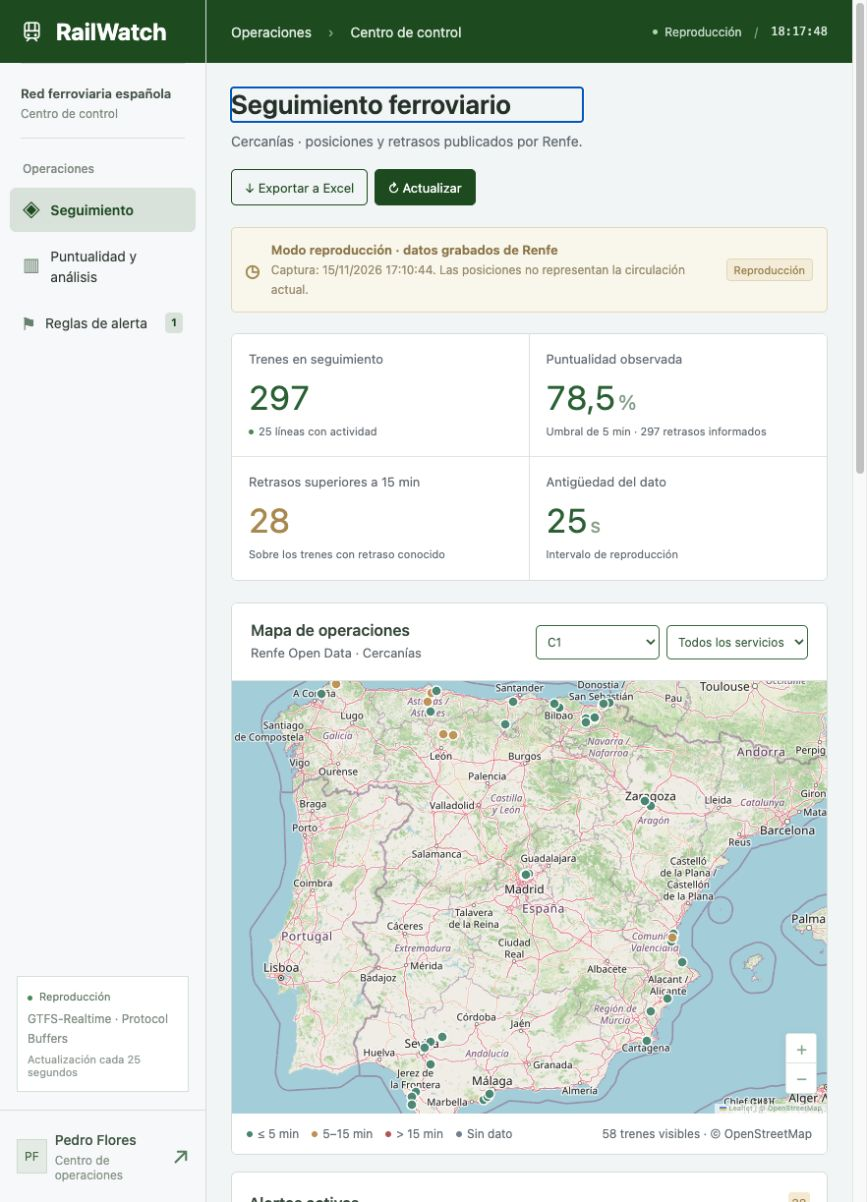
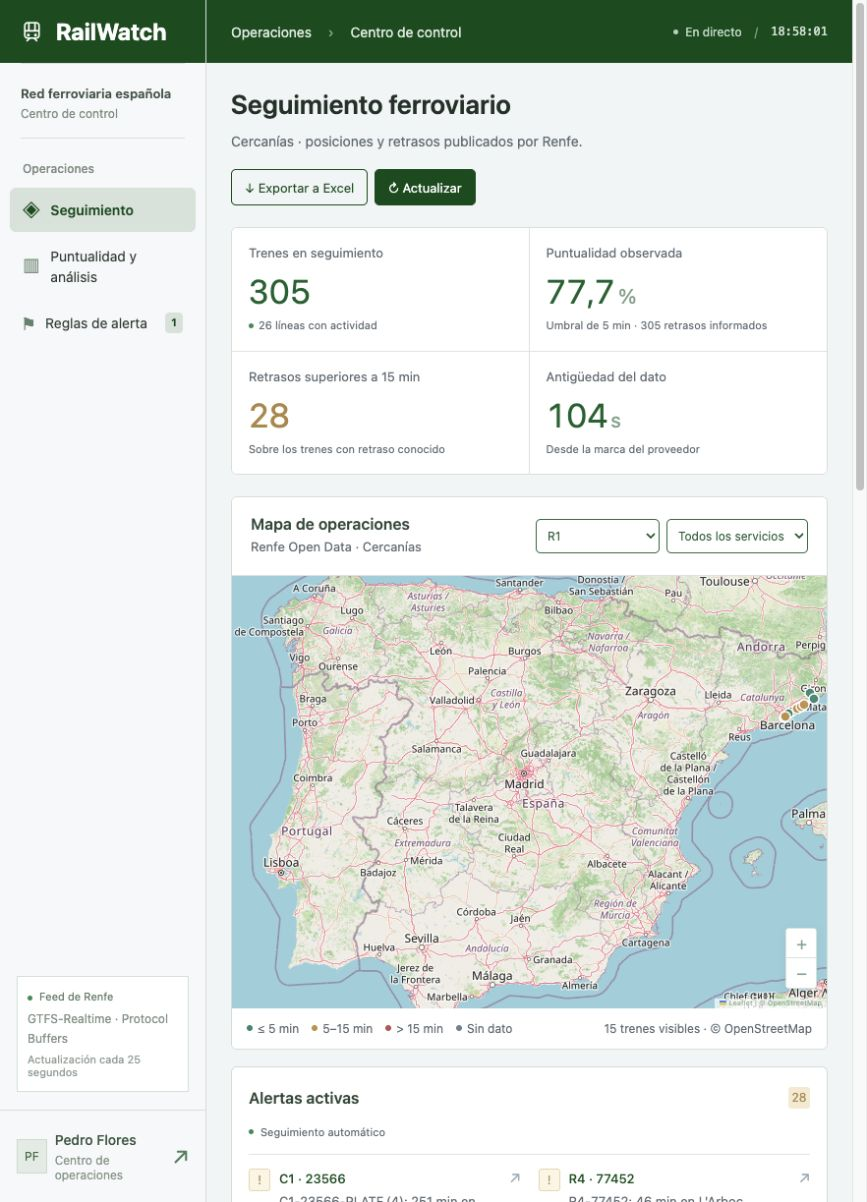
Ajustar contraste y capturas del diseño verde y blanco

diff --git a/src/RailWatch.Desktop.Wpf/MainWindow.xaml b/src/RailWatch.Desktop.Wpf/MainWindow.xaml
@@ -1,17 +1,17 @@
 <Window x:Class="RailWatch.Desktop.Wpf.MainWindow" xmlns="http://schemas.microsoft.com/winfx/2006/xaml/presentation" xmlns:x="http://schemas.microsoft.com/winfx/2006/xaml" Title="RailWatch · Centro de control" Width="1360" Height="850" MinWidth="1050" MinHeight="650" Background="#F4F7F9" FontFamily="Segoe UI" FontSize="14" Foreground="#294357" WindowStartupLocation="CenterScreen">
-    <Grid><Grid.ColumnDefinitions><ColumnDefinition Width="225"/><ColumnDefinition Width="*"/></Grid.ColumnDefinitions>
-        <Border Background="#17541F"><DockPanel Margin="23,30"><StackPanel DockPanel.Dock="Top"><TextBlock Text="≋ RailWatch" FontFamily="Segoe UI" FontSize="26" Foreground="White"/><TextBlock Text="Control ferroviario" Foreground="#91A7B8" FontSize="11" Margin="4,10,0,40"/><TextBlock Text="Centro de control" FontSize="11" Foreground="#BCA275"/><TextBlock Text="Red ferroviaria española" Foreground="#D3DFE8" FontSize="13" Margin="0,12,0,7"/><TextBlock Text="Seguimiento de operaciones" Foreground="#819CAE" FontSize="13"/></StackPanel><StackPanel VerticalAlignment="Bottom"><TextBlock Text="Pedro Flores" Foreground="White" FontSize="12"/><TextBlock Text="C# / .NET · WPF / MVVM" Foreground="#7C98AC" FontSize="12" Margin="0,7,0,0"/></StackPanel></DockPanel></Border>
+    <Grid Background="#F4F7F9"><Grid.ColumnDefinitions><ColumnDefinition Width="225"/><ColumnDefinition Width="*"/></Grid.ColumnDefinitions>
+        <Border Background="#17541F"><DockPanel Margin="23,30"><StackPanel DockPanel.Dock="Top"><TextBlock Text="≋ RailWatch" FontFamily="Segoe UI" FontSize="26" Foreground="White"/><TextBlock Text="Control ferroviario" Foreground="#C0D8C5" FontSize="12" Margin="4,10,0,40"/><TextBlock Text="Centro de control" FontSize="12" Foreground="#C0D8C5"/><TextBlock Text="Red ferroviaria española" Foreground="#D3DFE8" FontSize="13" Margin="0,12,0,7"/><TextBlock Text="Seguimiento de operaciones" Foreground="#C0D8C5" FontSize="13"/></StackPanel><StackPanel VerticalAlignment="Bottom"><TextBlock Text="Pedro Flores" Foreground="White" FontSize="12"/><TextBlock Text="C# / .NET · WPF / MVVM" Foreground="#C0D8C5" FontSize="12" Margin="0,7,0,0"/></StackPanel></DockPanel></Border>
         <Grid Grid.Column="1" Margin="30,25"><Grid.RowDefinitions><RowDefinition Height="Auto"/><RowDefinition Height="Auto"/><RowDefinition Height="*"/><RowDefinition Height="Auto"/></Grid.RowDefinitions>
-            <Grid><Grid.ColumnDefinitions><ColumnDefinition/><ColumnDefinition Width="Auto"/></Grid.ColumnDefinitions><StackPanel><TextBlock Text="Red de Cercanías" Foreground="#AA9169" FontSize="12"/><TextBlock Text="Centro de control ferroviario" FontFamily="Segoe UI" FontSize="26" Margin="0,13,0,10"/><TextBlock Text="{Binding Status}" FontSize="13" Foreground="#8B9EAD"/></StackPanel><Button Grid.Column="1" Content="Exportar a Excel" VerticalAlignment="Center" Click="Export_Click"/></Grid>
+            <Grid><Grid.ColumnDefinitions><ColumnDefinition/><ColumnDefinition Width="Auto"/></Grid.ColumnDefinitions><StackPanel><TextBlock Text="Red de Cercanías" Foreground="#65756B" FontSize="12"/><TextBlock Text="Centro de control ferroviario" FontFamily="Segoe UI" FontSize="26" Margin="0,13,0,10"/><TextBlock Text="{Binding Status}" FontSize="13" Foreground="#65756B"/></StackPanel><Button Grid.Column="1" Content="Exportar a Excel" VerticalAlignment="Center" Click="Export_Click"/></Grid>
             <Grid Grid.Row="1" Margin="0,25,0,25"><Grid.ColumnDefinitions><ColumnDefinition/><ColumnDefinition/><ColumnDefinition/></Grid.ColumnDefinitions>
-                <Border Background="White" BorderBrush="#DFE7ED" BorderThickness="1" Padding="20" Margin="0,0,15,0"><StackPanel><TextBlock Text="Trenes en seguimiento" FontSize="13" Foreground="#94A5B3"/><TextBlock Text="{Binding TrainCount}" FontSize="35" Margin="0,10,0,0"/></StackPanel></Border>
-                <Border Grid.Column="1" Background="White" BorderBrush="#DFE7ED" BorderThickness="1" Padding="20" Margin="0,0,15,0"><StackPanel><TextBlock Text="Puntualidad observada (≤ 5 min)" FontSize="13" Foreground="#94A5B3"/><TextBlock Text="{Binding Punctuality, TargetNullValue=Sin datos, StringFormat={}{0:0.0}%}" FontSize="35" Margin="0,10,0,0" Foreground="#618D78"/></StackPanel></Border>
-                <Border Grid.Column="2" Background="White" BorderBrush="#DFE7ED" BorderThickness="1" Padding="20"><StackPanel><TextBlock Text="Alertas de retraso" FontSize="13" Foreground="#94A5B3"/><TextBlock Text="{Binding Alerts.Count}" FontSize="35" Margin="0,10,0,0" Foreground="#B49762"/></StackPanel></Border>
+                <Border Background="White" BorderBrush="#DFE7ED" BorderThickness="1" Padding="20" Margin="0,0,15,0"><StackPanel><TextBlock Text="Trenes en seguimiento" FontSize="13" Foreground="#65756B"/><TextBlock Text="{Binding TrainCount}" FontSize="35" Margin="0,10,0,0"/></StackPanel></Border>
+                <Border Grid.Column="1" Background="White" BorderBrush="#DFE7ED" BorderThickness="1" Padding="20" Margin="0,0,15,0"><StackPanel><TextBlock Text="Puntualidad observada (≤ 5 min)" FontSize="13" Foreground="#65756B"/><TextBlock Text="{Binding Punctuality, TargetNullValue=Sin datos, StringFormat={}{0:0.0}%}" FontSize="35" Margin="0,10,0,0" Foreground="#618D78"/></StackPanel></Border>
+                <Border Grid.Column="2" Background="White" BorderBrush="#DFE7ED" BorderThickness="1" Padding="20"><StackPanel><TextBlock Text="Alertas de retraso" FontSize="13" Foreground="#65756B"/><TextBlock Text="{Binding Alerts.Count}" FontSize="35" Margin="0,10,0,0" Foreground="#B49762"/></StackPanel></Border>
             </Grid>
-            <Grid Grid.Row="2"><Grid.ColumnDefinitions><ColumnDefinition Width="3*"/><ColumnDefinition Width="20"/><ColumnDefinition Width="1.25*"/></Grid.ColumnDefinitions><Grid><Grid.RowDefinitions><RowDefinition Height="Auto"/><RowDefinition Height="*"/><RowDefinition Height="Auto"/></Grid.RowDefinitions><DockPanel Margin="0,0,0,15"><TextBlock Text="Trenes en circulación" FontSize="17" VerticalAlignment="Center"/><TextBox Text="{Binding Filter, UpdateSourceTrigger=PropertyChanged}" Width="230" Padding="9" HorizontalAlignment="Right" ToolTip="Buscar tren, línea o estación"/></DockPanel><DataGrid Grid.Row="1" ItemsSource="{Binding Trains}"><DataGrid.Columns><DataGridTextColumn Header="Tren" Binding="{Binding Id}" Width="80"/><DataGridTextColumn Header="Línea" Binding="{Binding Line}" Width="65"/><DataGridTextColumn Header="Próxima estación" Binding="{Binding NextStop}" Width="*"/><DataGridTextColumn Header="Retraso (s)" Binding="{Binding DelaySeconds, TargetNullValue=Sin dato}" Width="85"/><DataGridTextColumn Header="Predicción (min)" Binding="{Binding PredictedDelayMinutes, StringFormat=0.0, TargetNullValue=Sin modelo}" Width="105"/></DataGrid.Columns></DataGrid><TextBlock Grid.Row="2" Text="Sin dato indica que el proveedor no informa del retraso. Replay identifica una grabación, no circulación actual." Foreground="#96A8B6" FontSize="12" TextWrapping="Wrap" Margin="0,12,0,0"/></Grid>
-                <Grid Grid.Column="2"><Grid.RowDefinitions><RowDefinition Height="Auto"/><RowDefinition Height="*"/><RowDefinition Height="Auto"/></Grid.RowDefinitions><DockPanel Margin="0,0,0,15"><TextBlock Text="Alertas en directo" FontSize="17"/><CheckBox Content="Sonido" IsChecked="{Binding SoundEnabled}" HorizontalAlignment="Right" VerticalAlignment="Center" FontSize="12"/></DockPanel><ListBox Grid.Row="1" ItemsSource="{Binding Alerts}" BorderBrush="#DFE7ED" Background="White" ScrollViewer.HorizontalScrollBarVisibility="Disabled"><ListBox.ItemTemplate><DataTemplate><Border BorderBrush="#EDF1F3" BorderThickness="0,0,0,1" Padding="10,14"><StackPanel><TextBlock Text="{Binding Line}" Foreground="#B69661" FontWeight="SemiBold"/><TextBlock Text="{Binding Message}" FontSize="13" TextWrapping="Wrap" Margin="0,7,0,0"/><TextBlock Text="{Binding At, StringFormat=HH:mm:ss}" FontSize="11" Foreground="#A6B5BF" Margin="0,7,0,0"/></StackPanel></Border></DataTemplate></ListBox.ItemTemplate></ListBox><StackPanel Grid.Row="2" Margin="0,20,0,0"><TextBlock Text="Puntualidad del día · seis líneas" FontSize="14" Margin="0,0,0,10"/><ItemsControl ItemsSource="{Binding Lines}"><ItemsControl.ItemTemplate><DataTemplate><Grid Margin="0,4"><Grid.ColumnDefinitions><ColumnDefinition Width="45"/><ColumnDefinition/><ColumnDefinition Width="50"/></Grid.ColumnDefinitions><TextBlock Text="{Binding Line}" FontSize="12"/><ProgressBar Grid.Column="1" Value="{Binding Punctuality}" Maximum="100" Height="7" Foreground="#78A28C" Background="#E7EDF1"/><TextBlock Grid.Column="2" Text="{Binding Punctuality, StringFormat={}{0:0}%}" HorizontalAlignment="Right" FontSize="12"/></Grid></DataTemplate></ItemsControl.ItemTemplate></ItemsControl></StackPanel></Grid>
+            <Grid Grid.Row="2"><Grid.ColumnDefinitions><ColumnDefinition Width="3*"/><ColumnDefinition Width="20"/><ColumnDefinition Width="1.25*"/></Grid.ColumnDefinitions><Grid><Grid.RowDefinitions><RowDefinition Height="Auto"/><RowDefinition Height="*"/><RowDefinition Height="Auto"/></Grid.RowDefinitions><DockPanel Margin="0,0,0,15"><TextBlock Text="Trenes en circulación" FontSize="17" VerticalAlignment="Center"/><TextBox Text="{Binding Filter, UpdateSourceTrigger=PropertyChanged}" Width="230" Padding="9" HorizontalAlignment="Right" ToolTip="Buscar tren, línea o estación"/></DockPanel><DataGrid Grid.Row="1" ItemsSource="{Binding Trains}"><DataGrid.Columns><DataGridTextColumn Header="Tren" Binding="{Binding Id}" Width="80"/><DataGridTextColumn Header="Línea" Binding="{Binding Line}" Width="65"/><DataGridTextColumn Header="Próxima estación" Binding="{Binding NextStop}" Width="*"/><DataGridTextColumn Header="Retraso (s)" Binding="{Binding DelaySeconds, TargetNullValue=Sin dato}" Width="85"/><DataGridTextColumn Header="Predicción (min)" Binding="{Binding PredictedDelayMinutes, StringFormat=0.0, TargetNullValue=Sin modelo}" Width="105"/></DataGrid.Columns></DataGrid><TextBlock Grid.Row="2" Text="Sin dato indica que el proveedor no informa del retraso. Replay identifica una grabación, no circulación actual." Foreground="#65756B" FontSize="12" TextWrapping="Wrap" Margin="0,12,0,0"/></Grid>
+                <Grid Grid.Column="2"><Grid.RowDefinitions><RowDefinition Height="Auto"/><RowDefinition Height="*"/><RowDefinition Height="Auto"/></Grid.RowDefinitions><DockPanel Margin="0,0,0,15"><TextBlock Text="Alertas en directo" FontSize="17"/><CheckBox Content="Sonido" IsChecked="{Binding SoundEnabled}" HorizontalAlignment="Right" VerticalAlignment="Center" FontSize="12"/></DockPanel><ListBox Grid.Row="1" ItemsSource="{Binding Alerts}" BorderBrush="#DFE7ED" Background="White" ScrollViewer.HorizontalScrollBarVisibility="Disabled"><ListBox.ItemTemplate><DataTemplate><Border BorderBrush="#EDF1F3" BorderThickness="0,0,0,1" Padding="10,14"><StackPanel><TextBlock Text="{Binding Line}" Foreground="#B69661" FontWeight="SemiBold"/><TextBlock Text="{Binding Message}" FontSize="13" TextWrapping="Wrap" Margin="0,7,0,0"/><TextBlock Text="{Binding At, StringFormat=HH:mm:ss}" FontSize="12" Foreground="#65756B" Margin="0,7,0,0"/></StackPanel></Border></DataTemplate></ListBox.ItemTemplate></ListBox><StackPanel Grid.Row="2" Margin="0,20,0,0"><TextBlock Text="Puntualidad del día · seis líneas" FontSize="14" Margin="0,0,0,10"/><ItemsControl ItemsSource="{Binding Lines}"><ItemsControl.ItemTemplate><DataTemplate><Grid Margin="0,4"><Grid.ColumnDefinitions><ColumnDefinition Width="45"/><ColumnDefinition/><ColumnDefinition Width="50"/></Grid.ColumnDefinitions><TextBlock Text="{Binding Line}" FontSize="12"/><ProgressBar Grid.Column="1" Value="{Binding Punctuality}" Maximum="100" Height="7" Foreground="#78A28C" Background="#E7EDF1"/><TextBlock Grid.Column="2" Text="{Binding Punctuality, StringFormat={}{0:0}%}" HorizontalAlignment="Right" FontSize="12"/></Grid></DataTemplate></ItemsControl.ItemTemplate></ItemsControl></StackPanel></Grid>
             </Grid>
-            <TextBlock Grid.Row="3" Text="Datos: Renfe Open Data · CC BY 4.0 / RailWatch · Centro de operaciones" Foreground="#A4B2BD" FontSize="12" Margin="0,25,0,0"/>
+            <TextBlock Grid.Row="3" Text="Datos: Renfe Open Data · CC BY 4.0 / RailWatch · Centro de operaciones" Foreground="#65756B" FontSize="12" Margin="0,25,0,0"/>
         </Grid>
     </Grid>
 </Window>

diff --git a/docs/validation.md b/docs/validation.md
@@ -8,4 +8,6 @@ El feed no garantiza cobertura de AVE/Media Distancia. No se estiman trayectoria
 
 Las reglas pueden configurarse libremente en esta demostración local. La API pública necesitaría autenticación, límites de acceso, migraciones de esquema y secretos externos. No se afirma una auditoría independiente ni la ausencia absoluta de errores.
 
-Despliegue completo comprobado con Docker Compose. El recorrido HTTP comprueba permisos, resultados y archivos exportados. Se comprobaron filtros, estadísticas, creación/eliminación de reglas, Excel, recursos interactivos de Blazor y endpoint de métricas.
+Despliegue completo comprobado con Docker Compose. El recorrido HTTP comprueba resultados y archivos exportados. Se comprobaron filtros, estadísticas, creación/eliminación de reglas, Excel, recursos interactivos de Blazor y endpoint de métricas.
+
+El modo Live se ha probado contra Renfe: descarga completa del horario y recepción de más de 300 posiciones actuales. Prometheus ha recogido contadores reales y Grafana ha cargado el panel provisionado. Estos resultados dependen de la disponibilidad del proveedor.
